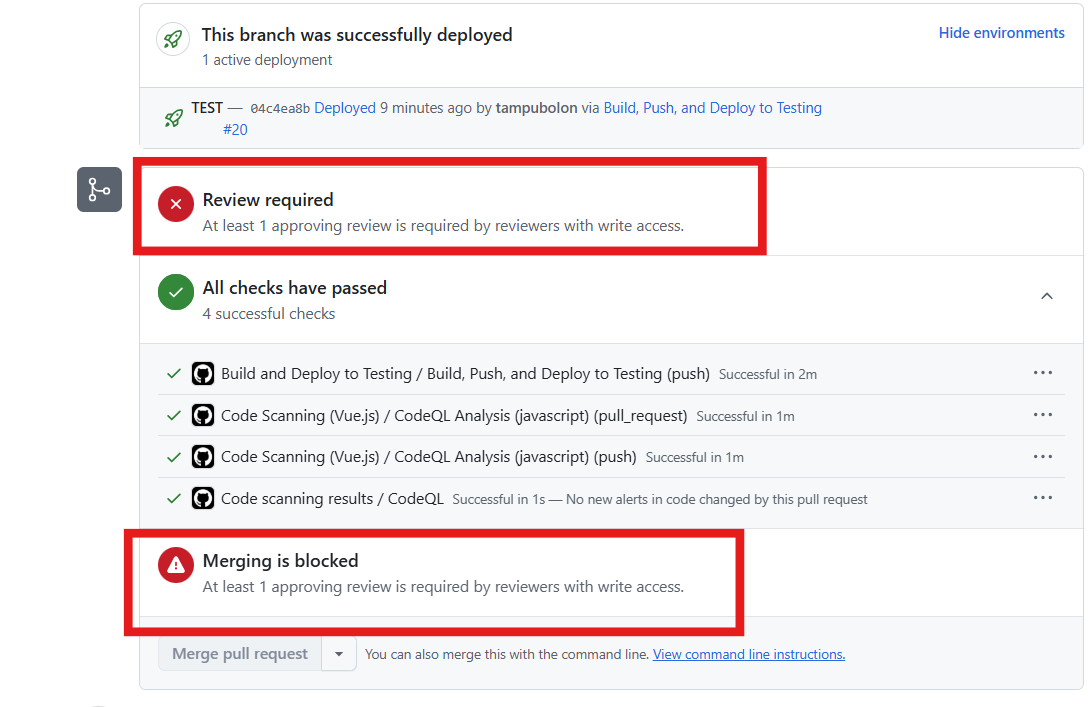
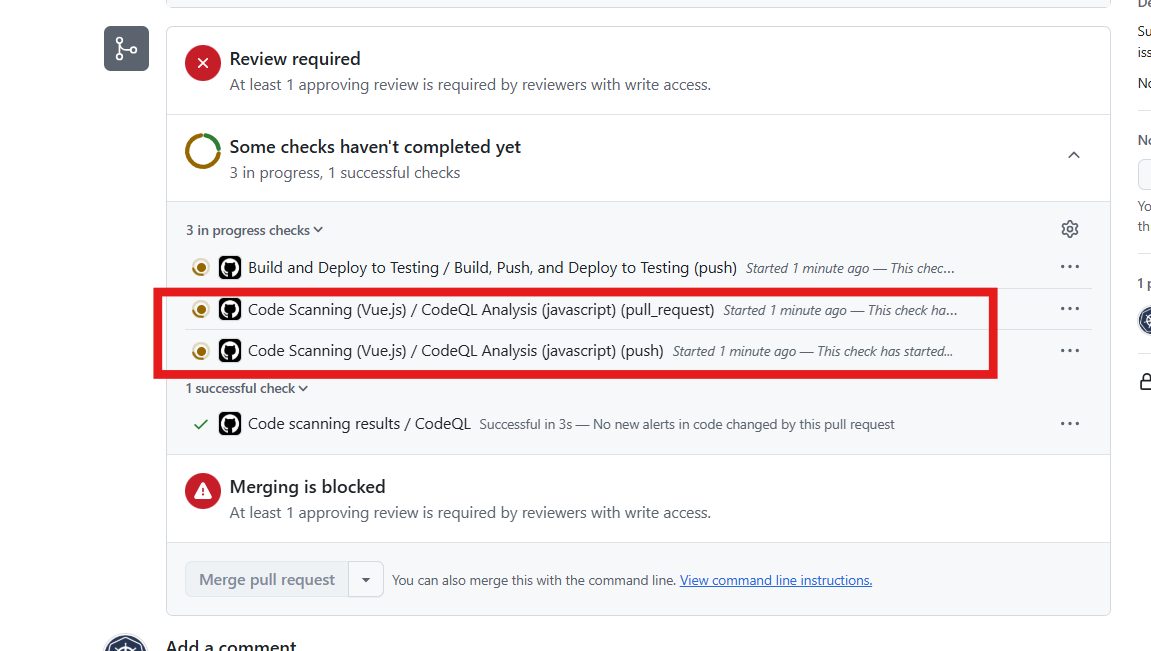
Update readme

diff --git a/README.md b/README.md
@@ -22,10 +22,11 @@ To merge a PR into the `main` branch, the following three requirements must be f
 
 1. ✅ The `deploy-test-env.yaml` workflow must pass  
    &nbsp;&nbsp;&nbsp;&nbsp;This deploys the code changes to the test environment (Azure App Service named `testing-flexidev`).
+![PR failing checks](azure/app/images/image2.png) 
 
 2. ✅ The `scan-codeql.yaml` workflow must pass  
    &nbsp;&nbsp;&nbsp;&nbsp;This runs a CodeQL scan to detect potential security vulnerabilities.
-![PR failing checks](azure/app/images/image2.png)   
+![PR failing checks](azure/app/images/image4.png)   
 
 3. ✅ The PR must receive at least one approval from another engineer.
 ![PR needs approval](azure/app/images/image3.png)
